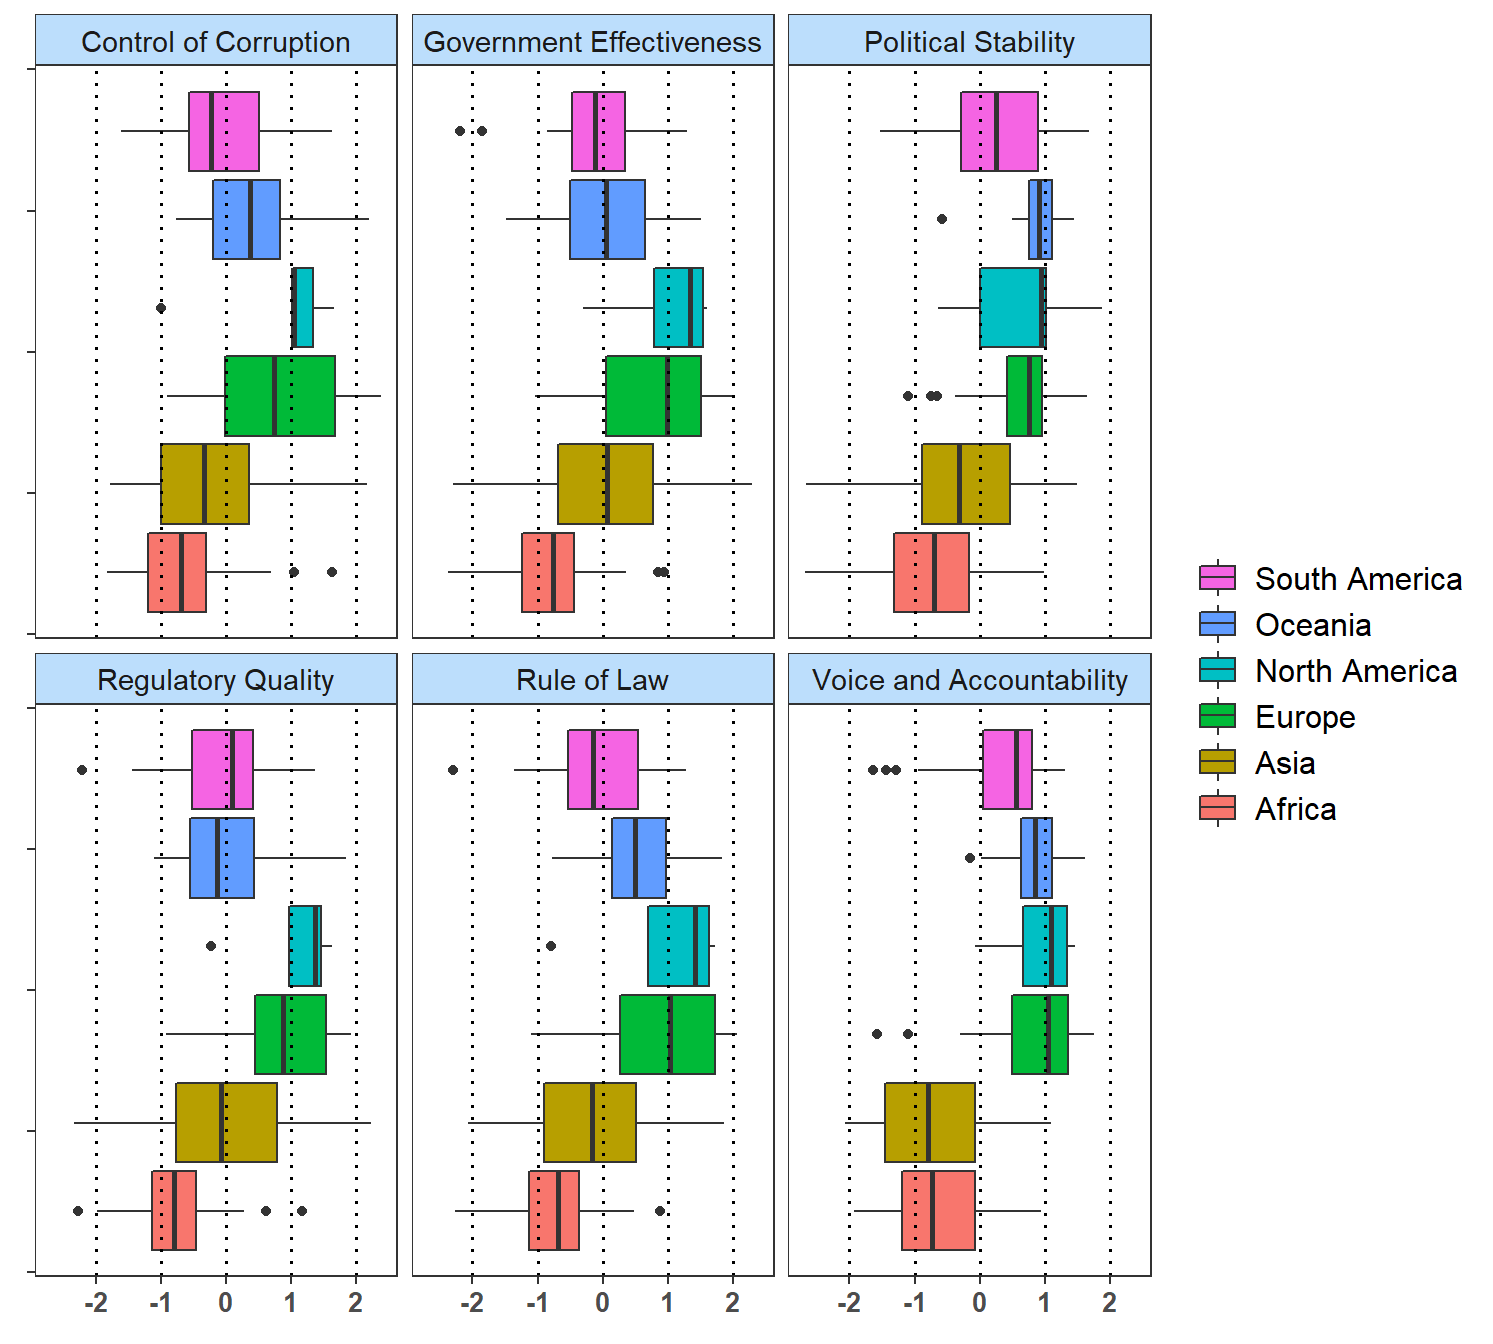
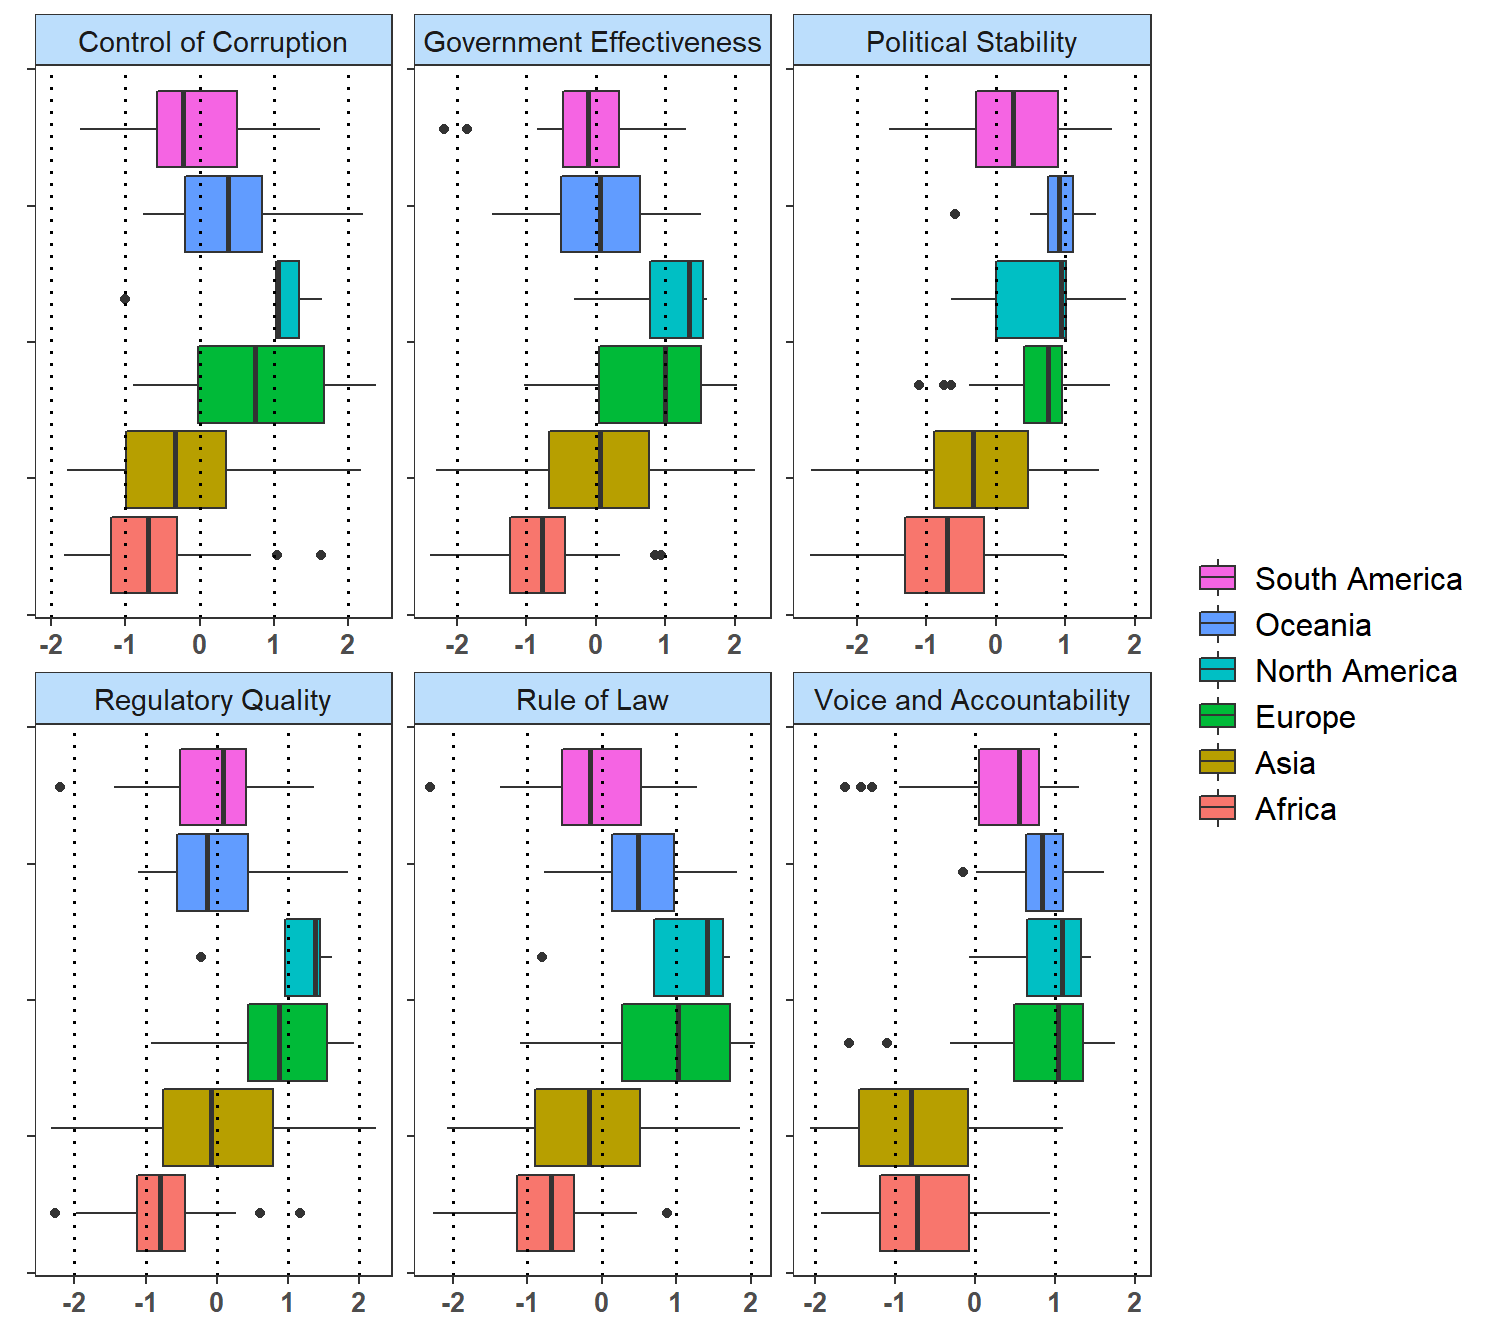
plot update

diff --git a/content/posts/2022-10-12-world-governance/world-gov-indicators.html b/content/posts/2022-10-12-world-governance/world-gov-indicators.html
@@ -80,7 +80,7 @@ ol {
 
 
 </style>
-<p><strong>Last Update:</strong> October 21, 2022 - 13:24</p>
+<p><strong>Last Update:</strong> October 21, 2022 - 13:30</p>
 <div id="table-of-contents" class="section level1">
 <h1>Table of Contents</h1>
 <ol style="list-style-type: decimal">
@@ -386,7 +386,7 @@ print(df_2021)
                         ggplot(aes(x = year, y = value, fill = continent)) +
                         geom_boxplot(na.rm = T) +
                         coord_flip() +
-                        facet_wrap(~indicator_name) +
+                        facet_wrap(~indicator_name, scales = &quot;free&quot;) +
                         geom_hline(yintercept =-2, linetype = &quot;dotted&quot;, size = .7, color = &quot;black&quot;) +
                         geom_hline(yintercept = -1, linetype = &quot;dotted&quot;, size = .7, color = &quot;black&quot;) +
                         geom_hline(yintercept = 0, linetype = &quot;dotted&quot;, size = .7, color = &quot;black&quot;) +
